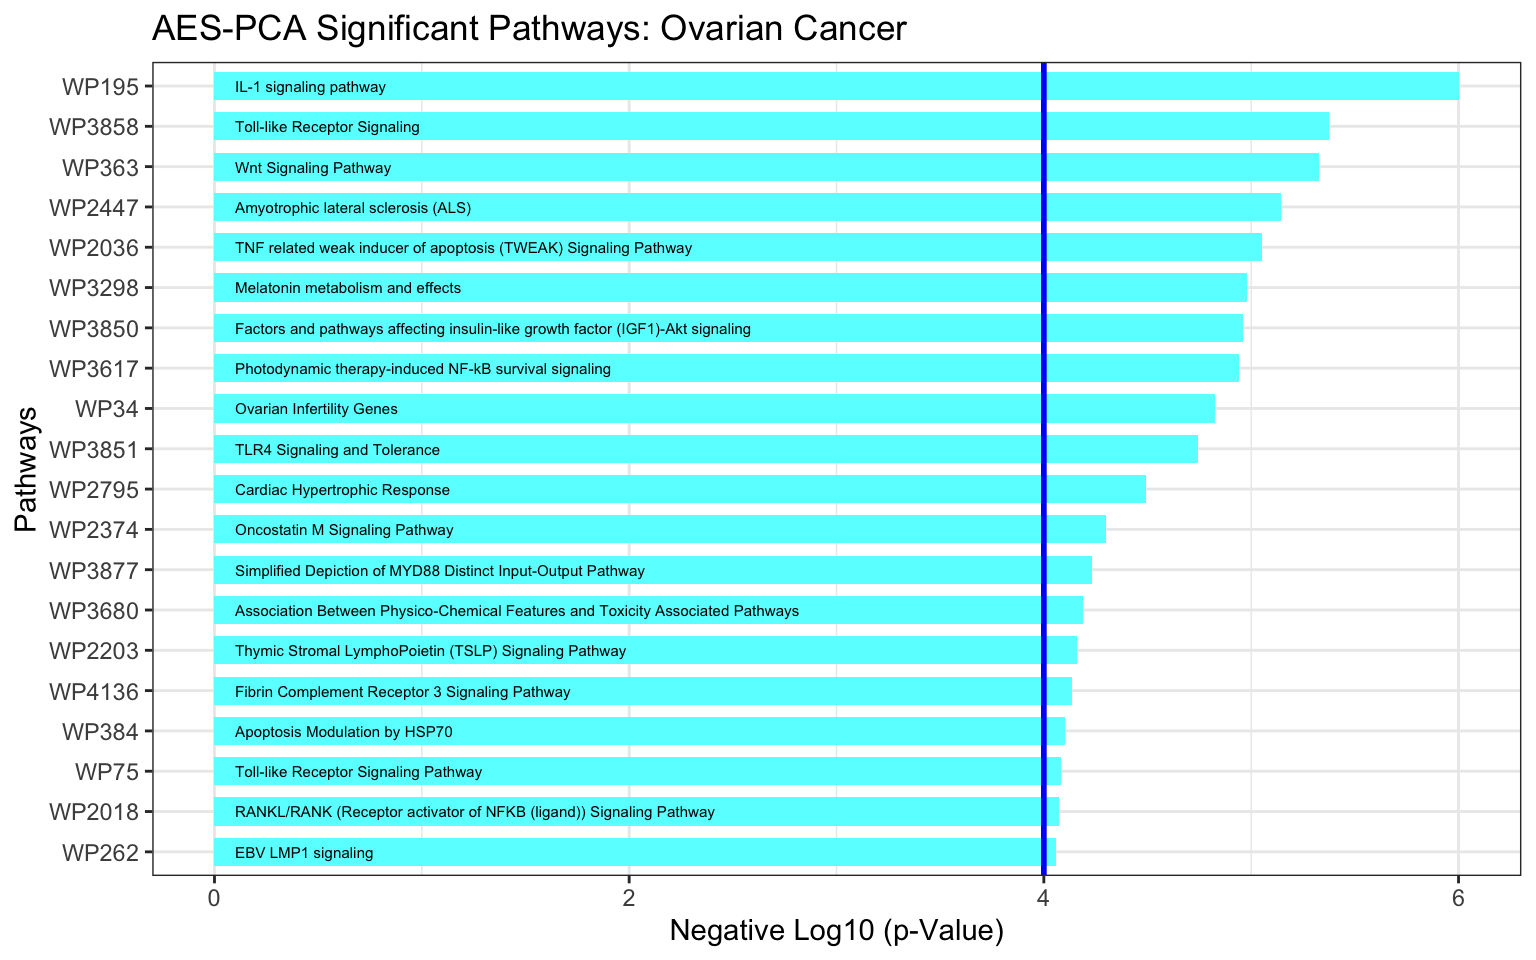
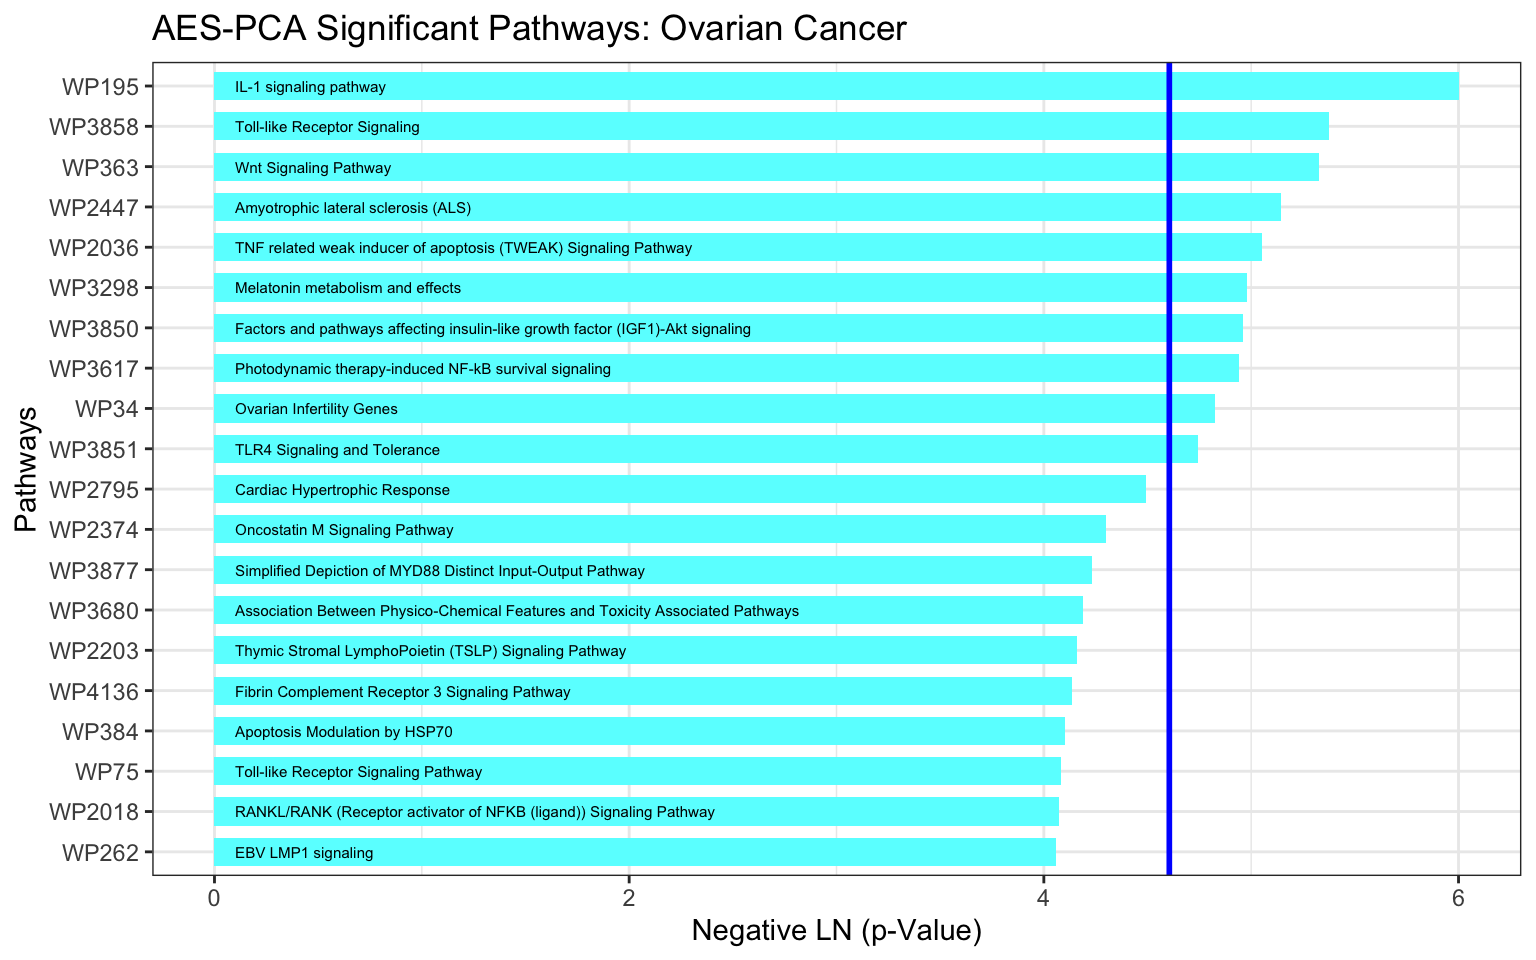
More minor vignette updates

Changed region(s): [[0.75, 0.0625, 0.7812, 0.9062], [0.6562, 0.0625, 0.6875, 0.9062], [0.4375, 0.9375, 0.6562, 1.0]]

diff --git a/docs/articles/Introduction_to_pathwayPCA.html b/docs/articles/Introduction_to_pathwayPCA.html
@@ -31,7 +31,7 @@
       </button>
       <span class="navbar-brand">
         <a class="navbar-link" href="../index.html">pathwayPCA</a>
-        <span class="version label label-default" data-toggle="tooltip" data-placement="bottom" title="Released version">1.1.3</span>
+        <span class="version label label-default" data-toggle="tooltip" data-placement="bottom" title="Released version">1.1.4</span>
       </span>
     </div>
 
@@ -89,7 +89,7 @@
       <h1>Integrative Pathway Analysis with pathwayPCA</h1>
                         <h4 class="author">Gabriel Odom, Lily Wang, Xi Chen</h4>
             
-            <h4 class="date">2020-01-13</h4>
+            <h4 class="date">2020-01-22</h4>
       
       
       <div class="hidden name"><code>Introduction_to_pathwayPCA.Rmd</code></div>
@@ -319,9 +319,9 @@ downloaded 170 KB</code></pre>
 <a class="sourceLine" id="cb16-15" data-line-number="15"><span class="st">  </span><span class="co"># Set main and axis titles</span></a>
 <a class="sourceLine" id="cb16-16" data-line-number="16"><span class="st">  </span><span class="kw">ggtitle</span>(<span class="st">"AES-PCA Significant Pathways: Ovarian Cancer"</span>) <span class="op">+</span></a>
 <a class="sourceLine" id="cb16-17" data-line-number="17"><span class="st">  </span><span class="kw">xlab</span>(<span class="st">"Pathways"</span>) <span class="op">+</span></a>
-<a class="sourceLine" id="cb16-18" data-line-number="18"><span class="st">  </span><span class="kw">ylab</span>(<span class="st">"Negative Log10 (p-Value)"</span>) <span class="op">+</span></a>
-<a class="sourceLine" id="cb16-19" data-line-number="19"><span class="st">  </span><span class="co"># Add a line showing the alpha = 0.0001 level</span></a>
-<a class="sourceLine" id="cb16-20" data-line-number="20"><span class="st">  </span><span class="kw">geom_hline</span>(<span class="dt">yintercept =</span> <span class="op">-</span><span class="kw"><a href="https://rdrr.io/r/base/Log.html">log10</a></span>(<span class="fl">0.0001</span>), <span class="dt">size =</span> <span class="dv">1</span>, <span class="dt">color =</span> <span class="st">"blue"</span>) <span class="op">+</span></a>
+<a class="sourceLine" id="cb16-18" data-line-number="18"><span class="st">  </span><span class="kw">ylab</span>(<span class="st">"Negative LN (p-Value)"</span>) <span class="op">+</span></a>
+<a class="sourceLine" id="cb16-19" data-line-number="19"><span class="st">  </span><span class="co"># Add a line showing the alpha = 0.01 level</span></a>
+<a class="sourceLine" id="cb16-20" data-line-number="20"><span class="st">  </span><span class="kw">geom_hline</span>(<span class="dt">yintercept =</span> <span class="op">-</span><span class="kw"><a href="https://rdrr.io/r/base/Log.html">log</a></span>(<span class="fl">0.01</span>), <span class="dt">size =</span> <span class="dv">1</span>, <span class="dt">color =</span> <span class="st">"blue"</span>) <span class="op">+</span></a>
 <a class="sourceLine" id="cb16-21" data-line-number="21"><span class="st">  </span><span class="co"># Flip the x and y axes</span></a>
 <a class="sourceLine" id="cb16-22" data-line-number="22"><span class="st">  </span><span class="kw">coord_flip</span>()</a></code></pre></div>
 <p><img src="Introduction_to_pathwayPCA_files/figure-html/pathway_bar_plots-1.png" width="768"></p>
@@ -968,7 +968,7 @@ h(t) = h_0(t) \exp\left[ \beta_0 + \beta_1\text{PC}_1 + \beta_2\text{male} + \be
 <a class="sourceLine" id="cb50-15" data-line-number="15"><span class="co">#&gt; </span></a>
 <a class="sourceLine" id="cb50-16" data-line-number="16"><span class="co">#&gt; other attached packages:</span></a>
 <a class="sourceLine" id="cb50-17" data-line-number="17"><span class="co">#&gt;  [1] survminer_0.4.6  ggpubr_0.2.3     magrittr_1.5     survival_3.1-8  </span></a>
-<a class="sourceLine" id="cb50-18" data-line-number="18"><span class="co">#&gt;  [5] pathwayPCA_1.1.3 forcats_0.4.0    stringr_1.4.0    dplyr_0.8.3     </span></a>
+<a class="sourceLine" id="cb50-18" data-line-number="18"><span class="co">#&gt;  [5] pathwayPCA_1.1.4 forcats_0.4.0    stringr_1.4.0    dplyr_0.8.3     </span></a>
 <a class="sourceLine" id="cb50-19" data-line-number="19"><span class="co">#&gt;  [9] purrr_0.3.3      readr_1.3.1      tidyr_1.0.0      tibble_2.1.3    </span></a>
 <a class="sourceLine" id="cb50-20" data-line-number="20"><span class="co">#&gt; [13] ggplot2_3.2.1    tidyverse_1.3.0 </span></a>
 <a class="sourceLine" id="cb50-21" data-line-number="21"><span class="co">#&gt; </span></a>

diff --git a/docs/articles/index.html b/docs/articles/index.html
@@ -67,7 +67,7 @@
       </button>
       <span class="navbar-brand">
         <a class="navbar-link" href="../index.html">pathwayPCA</a>
-        <span class="version label label-default" data-toggle="tooltip" data-placement="bottom" title="Released version">1.1.3</span>
+        <span class="version label label-default" data-toggle="tooltip" data-placement="bottom" title="Released version">1.1.4</span>
       </span>
     </div>
 
